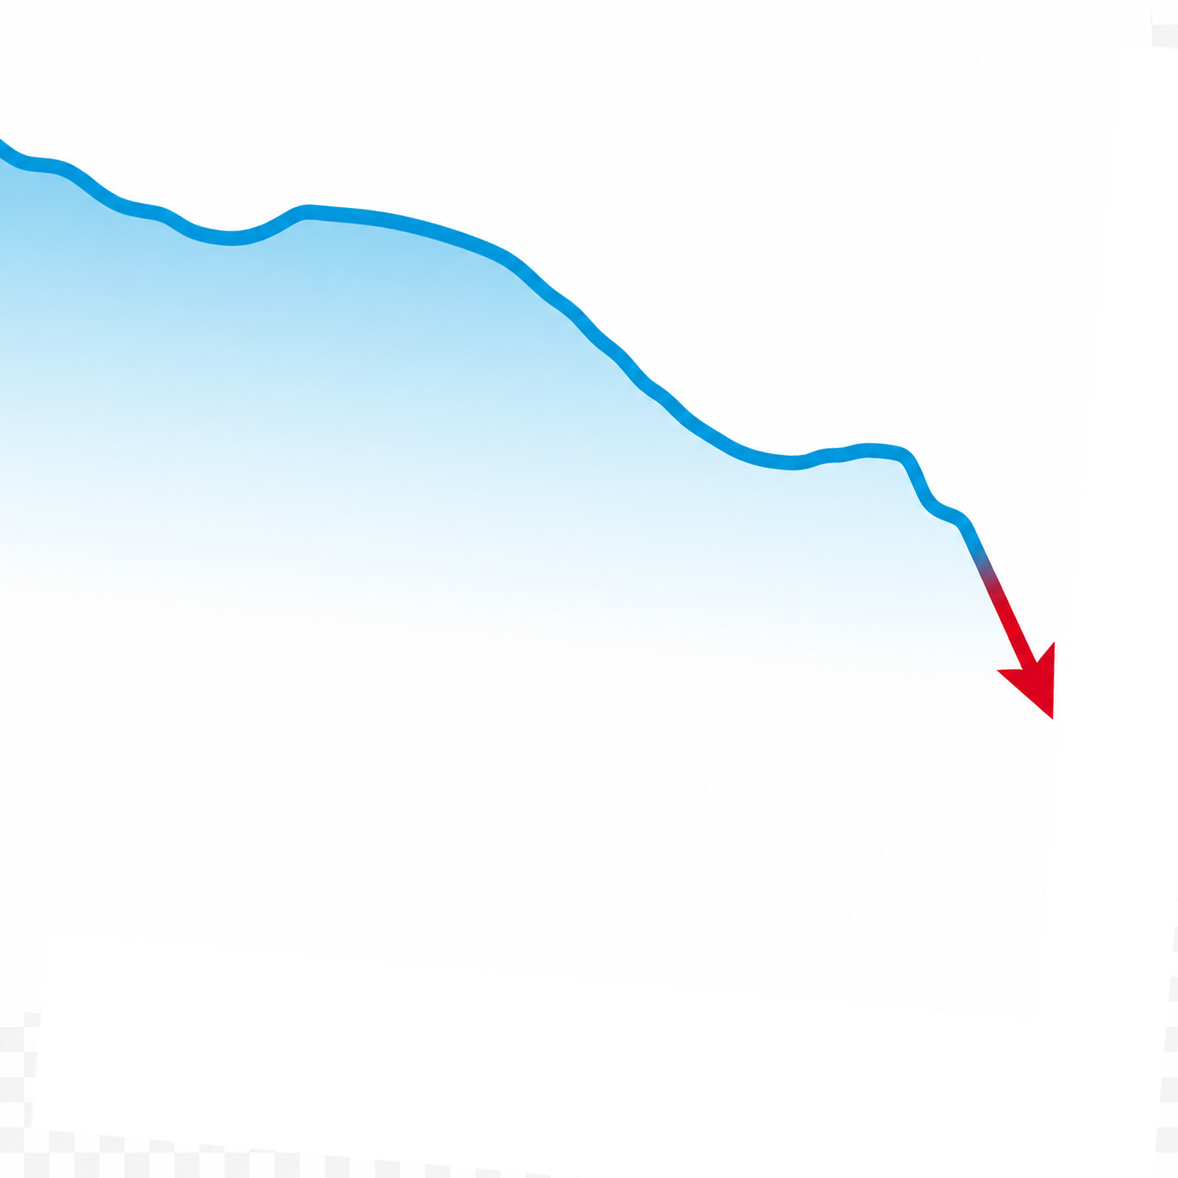
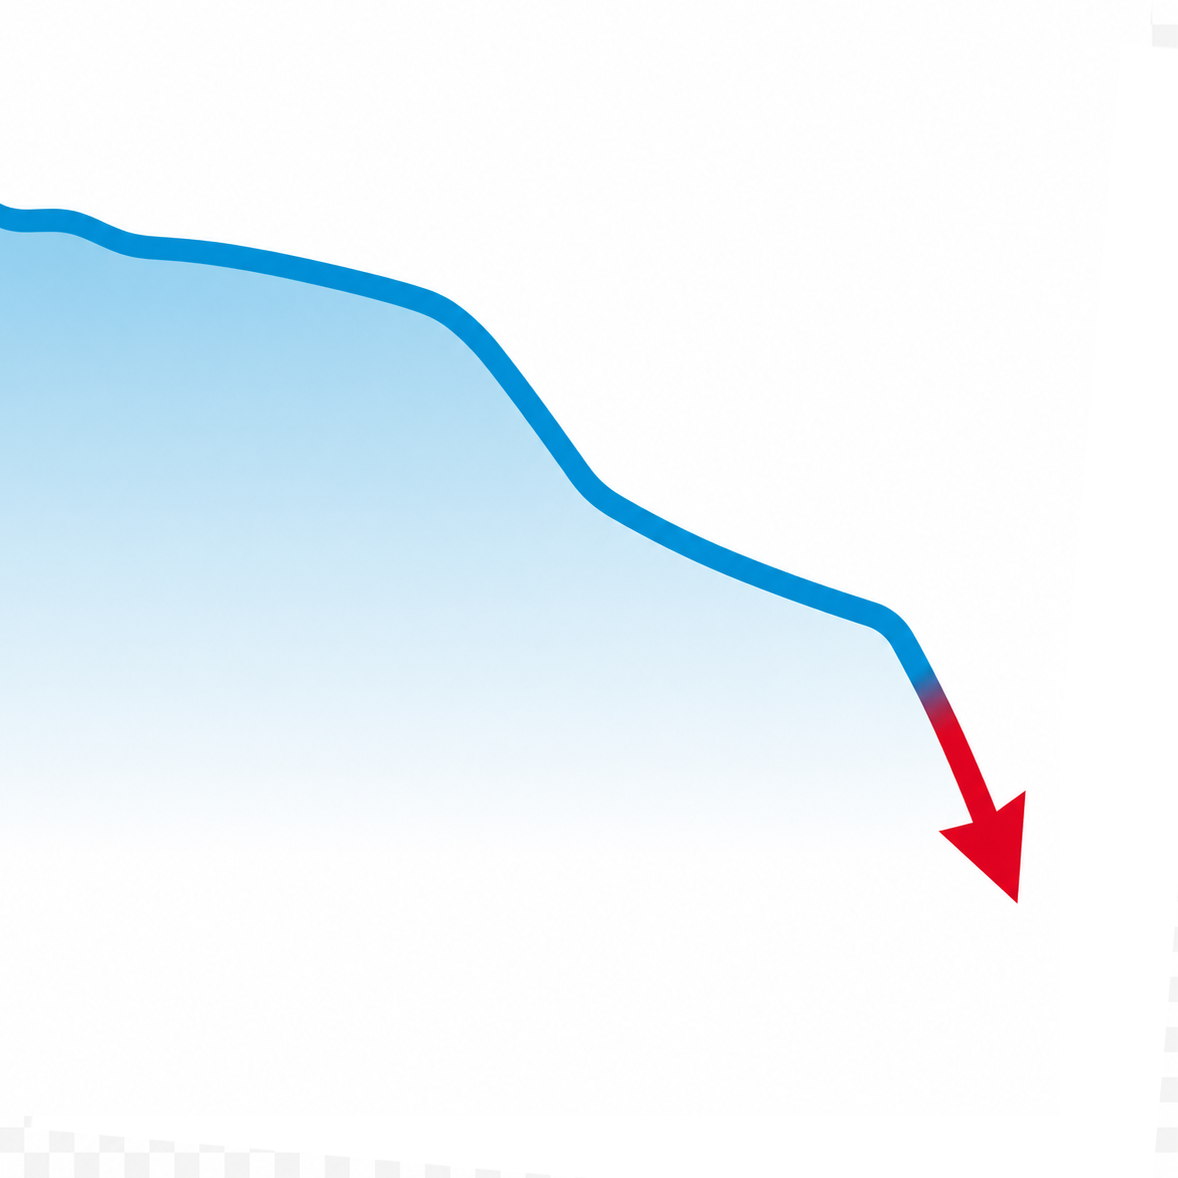
fixed little things

Changed region(s): [[0.0, 0.1222, 0.9168, 0.764]]

diff --git a/reality-checks/social-media-trend.html b/reality-checks/social-media-trend.html
@@ -17,7 +17,7 @@ A FFC project page
   <header class="site-header"><a class="back-link" href="../index.html">← Übersicht</a></header>
   <main class="countdown-main">
     <p class="label">Trend zeigt nach unten:</p>
-    <h1 class="countdown-title">92 553</h1>
+    <h1 class="countdown-title">92’553</h1>
     <p class="date">4. Juli 2026</p>
     <p class="label">Subscribers bei Telegram</p>
     <img class="portrait" src="../img/social-media-trend--kurve.png" alt="Telegram-Statistik">
@@ -30,7 +30,7 @@ A FFC project page
         <thead><tr><th>Datum</th><th>Telegram Abos<br>
         <span>Quelle: tgstat.com</span></th><th>Youtube Abos<br>
         Quelle: Youtube</th></tr></thead>
-        <tbody><tr><td>4.7.2026</td><td>92'553</td><td>42'100</td></tr></tbody>
+        <tbody><tr><td>4.7.2026</td><td>92’553</td><td>42’100</td></tr></tbody>
       </table>
     </section>
   </main>